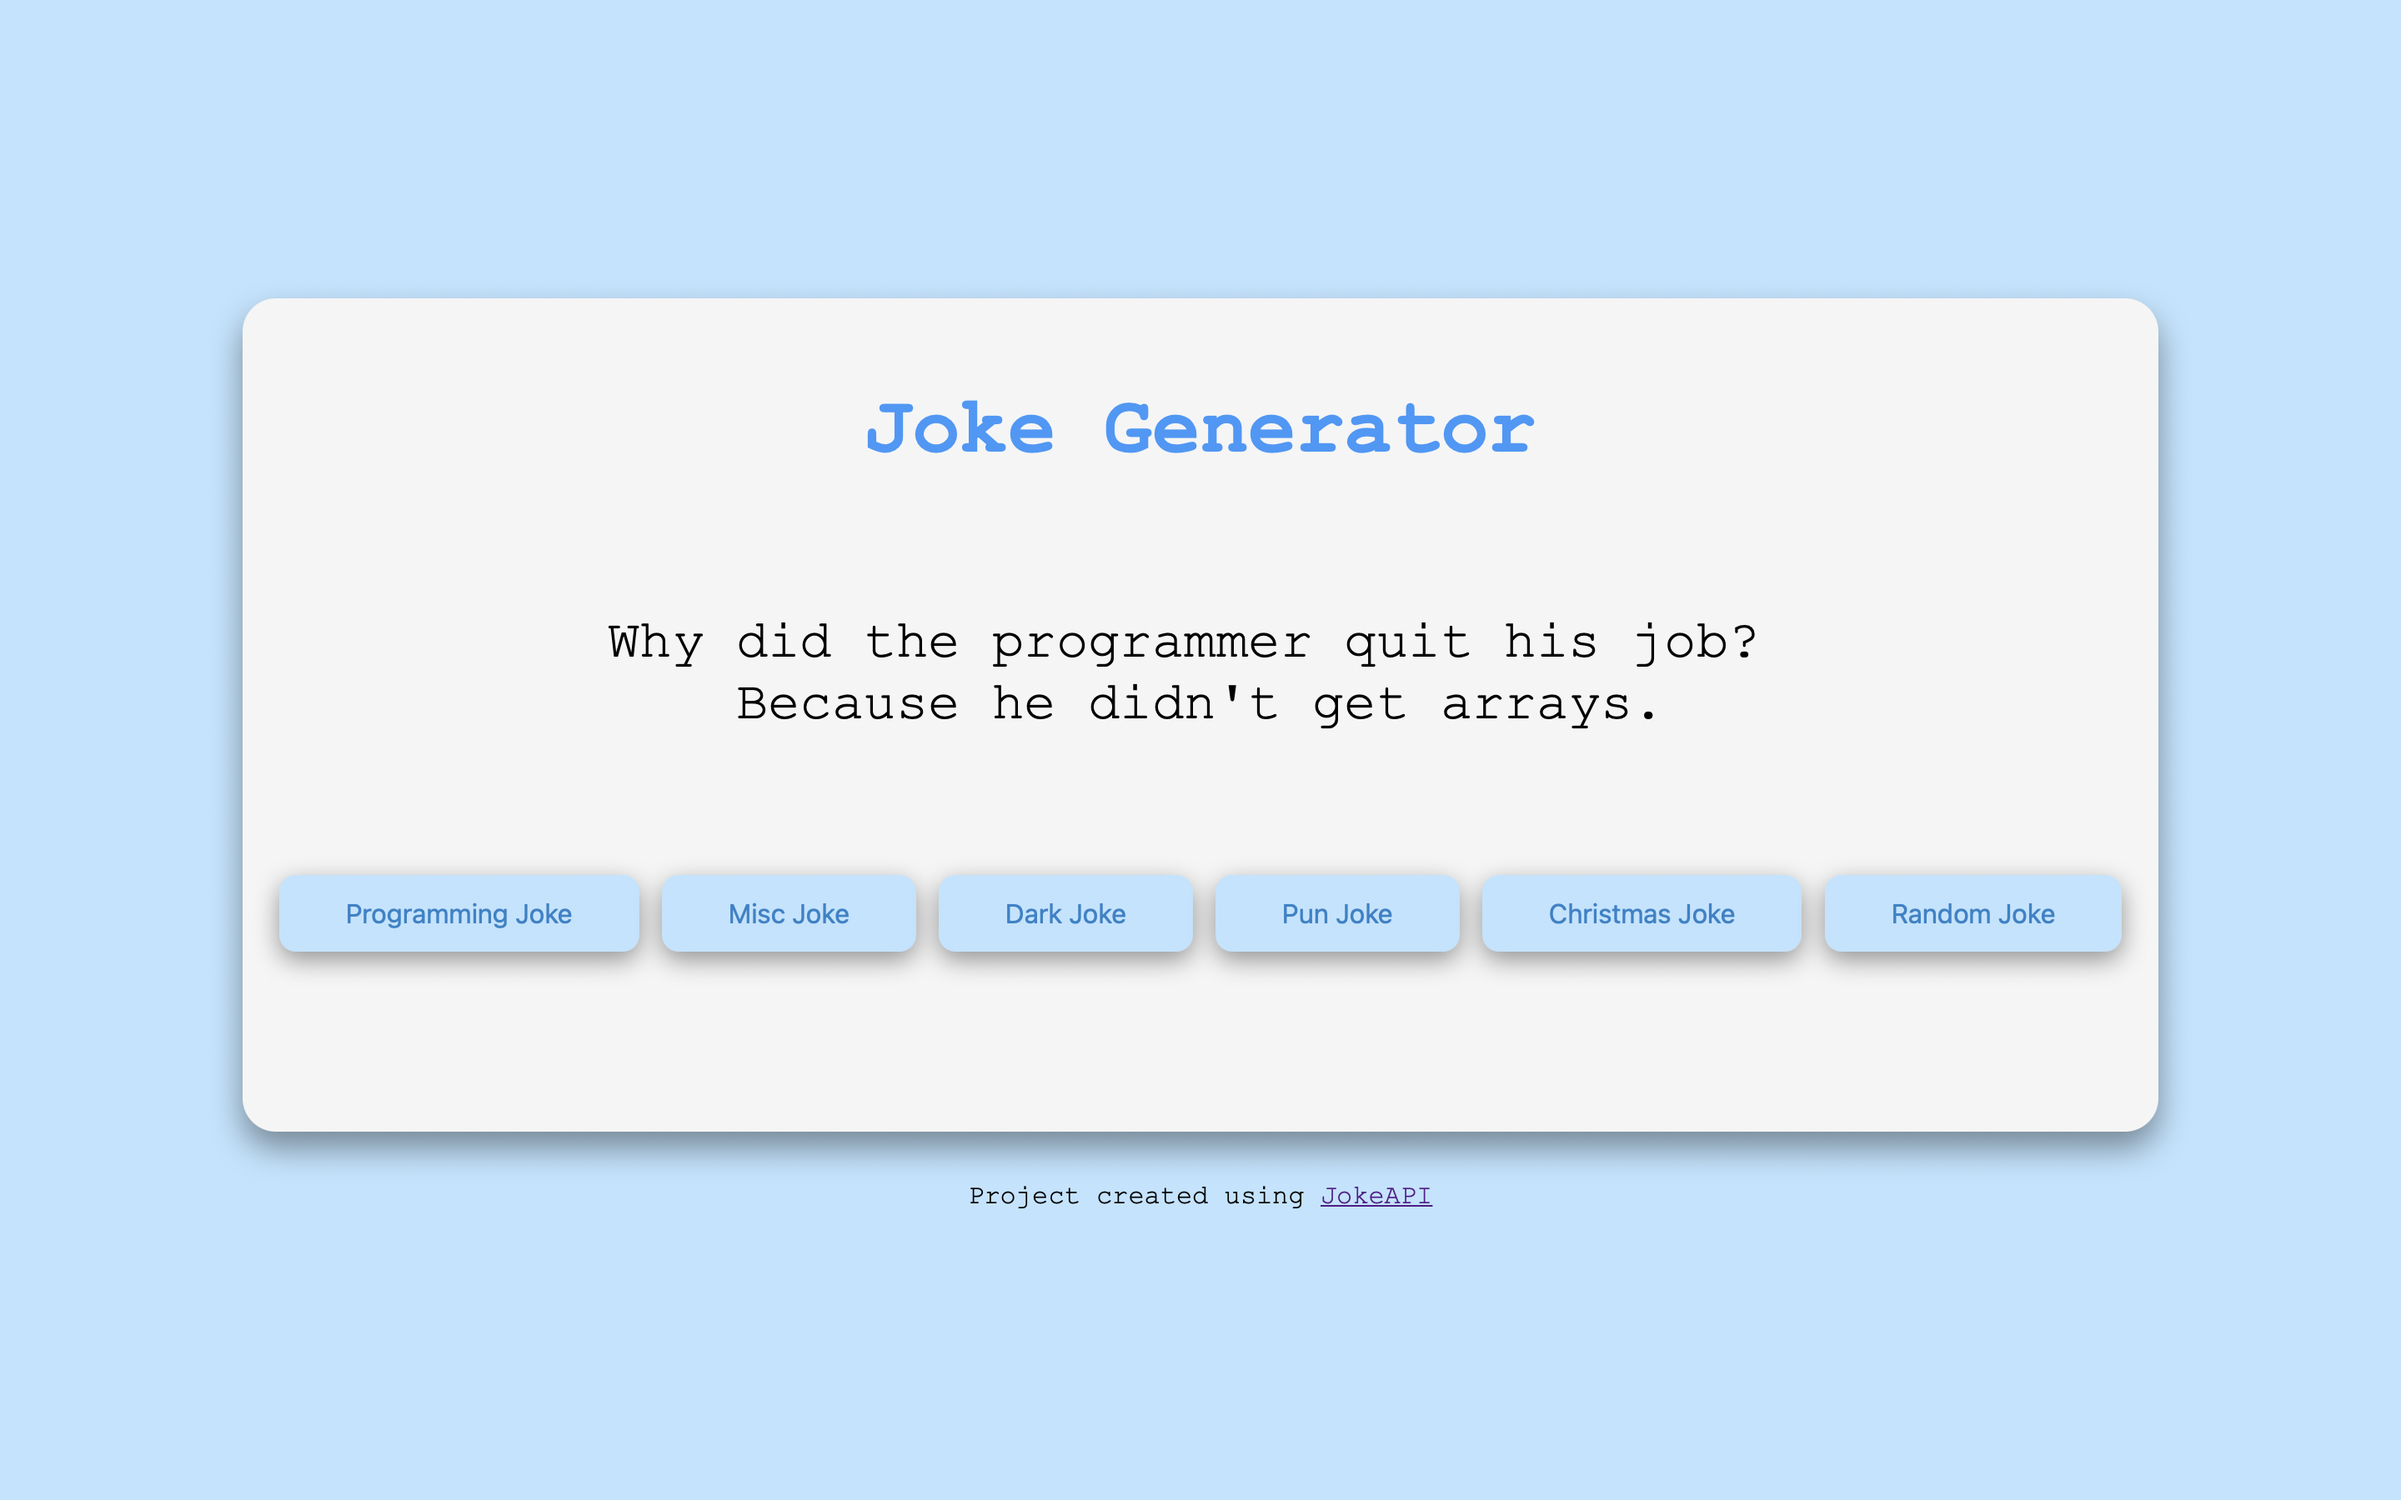
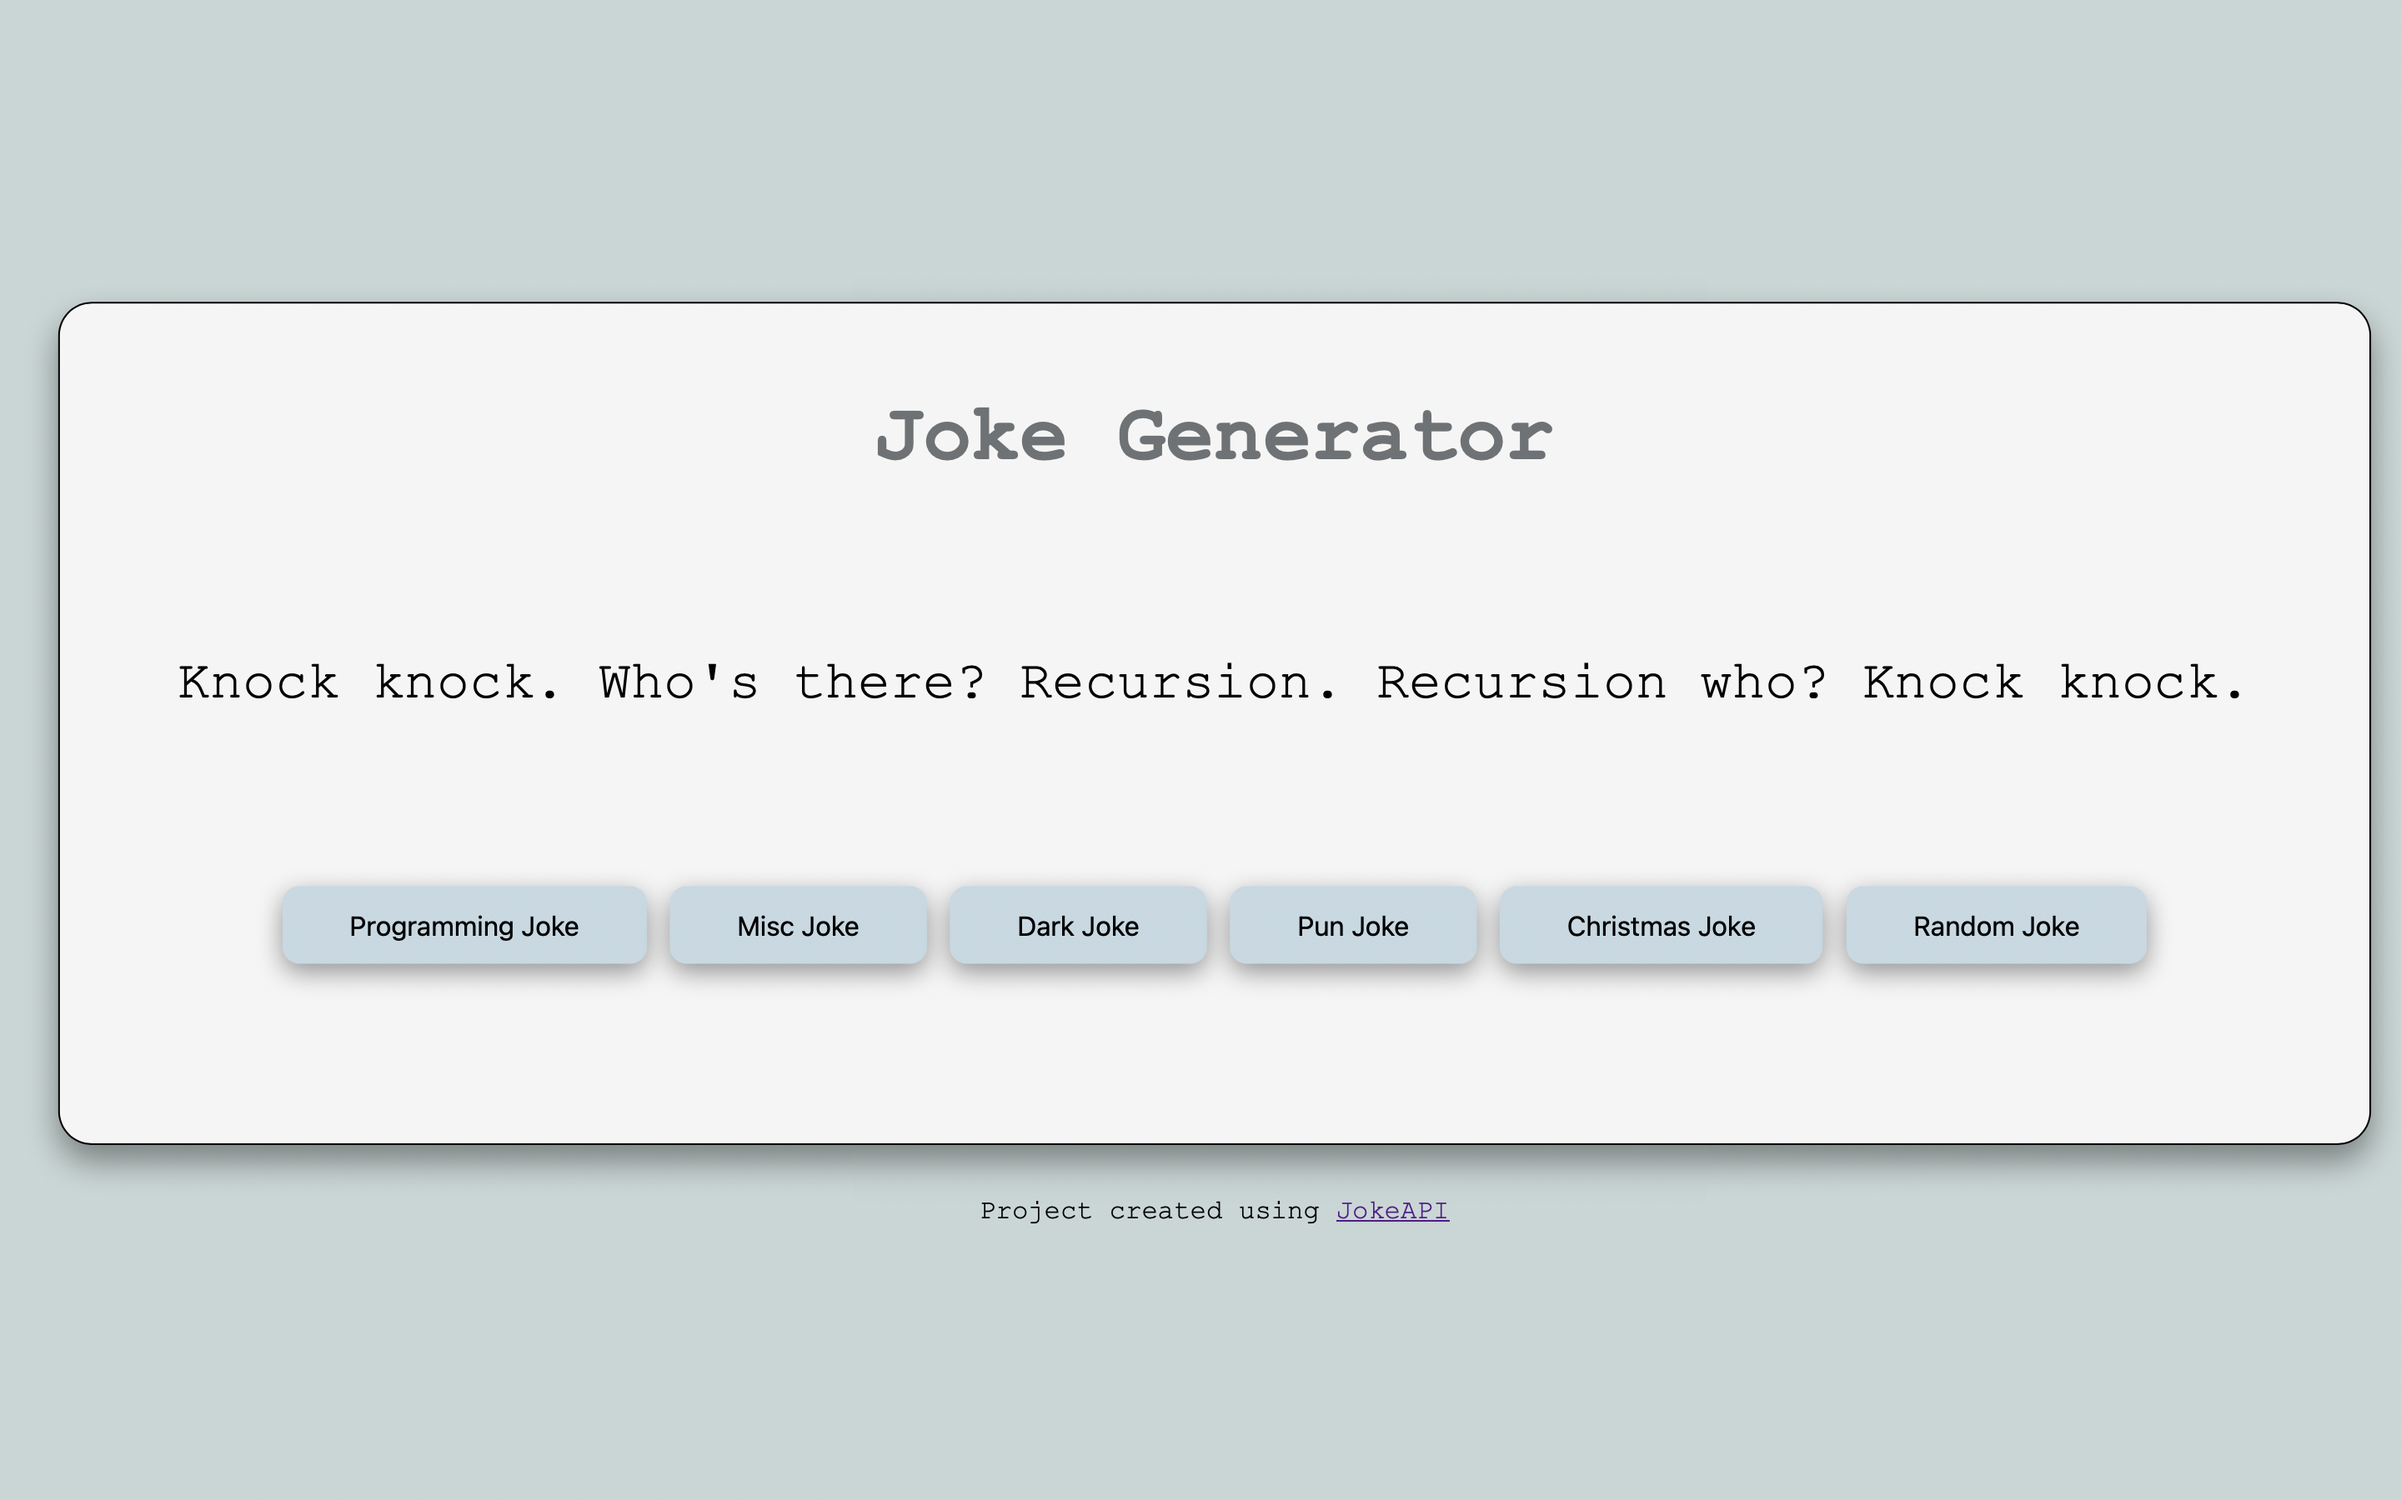
done

diff --git a/script.css b/script.css
@@ -11,7 +11,7 @@
 }
 
 body {
-    background-color: #bee4ff;
+    background-color: #C7D6D5;
     font-family:'Courier New', Courier, monospace;
     display: flex;
     flex-direction: column;
@@ -34,6 +34,7 @@ body {
     /* width: 800px; */
     /* max-height: 100%; */
     height: 500px;
+    border: 1px solid black;
 }
 
 .joke {
@@ -47,14 +48,14 @@ body {
 }
 
 h1 {
-  color: rgb(49, 153, 250);  
+  color: #6D7275;  
   /* text-shadow: 1px 3px 4px #000000; */
   font-size: 3rem;
 }
 
 .programming {
-    background-color: #bee4ff;
-    color: #1e83ca;
+    background-color: #C5D9E2;
+    color: #000000;
     border: 0;
     box-shadow: 0 5px 15px rgba(0, 0, 0, 0.4);
     padding: 14px 40px;
@@ -63,8 +64,8 @@ h1 {
     cursor: pointer;
 }
 .pun {
-    background-color: #bee4ff;
-    color: #1e83ca;
+    background-color: #C5D9E2;
+    color: #000000;
     border: 0;
     box-shadow: 0 5px 15px rgba(0, 0, 0, 0.4);
     padding: 14px 40px;
@@ -73,8 +74,8 @@ h1 {
     cursor: pointer;
 }
 .misc {
-    background-color: #bee4ff;
-    color: #1e83ca;
+    background-color: #C5D9E2;
+    color: #000000;
     border: 0;
     box-shadow: 0 5px 15px rgba(0, 0, 0, 0.4);
     padding: 14px 40px;
@@ -83,8 +84,8 @@ h1 {
     cursor: pointer;
 }
 .dark {
-    background-color: #bee4ff;
-    color: #1e83ca;
+    background-color: #C5D9E2;
+    color: #000000;
     border: 0;
     box-shadow: 0 5px 15px rgba(0, 0, 0, 0.4);
     padding: 14px 40px;
@@ -93,8 +94,8 @@ h1 {
     cursor: pointer;
 }
 .random {
-    background-color: #bee4ff;
-    color: #1e83ca;
+    background-color: #C5D9E2;
+    color: #000000;
     border: 0;
     box-shadow: 0 5px 15px rgba(0, 0, 0, 0.4);
     padding: 14px 40px;
@@ -103,8 +104,8 @@ h1 {
     cursor: pointer;
 }
 .christmas {
-    background-color: #bee4ff;
-    color: #1e83ca;
+    background-color: #C5D9E2;
+    color: #000000;
     border: 0;
     box-shadow: 0 5px 15px rgba(0, 0, 0, 0.4);
     padding: 14px 40px;
@@ -141,4 +142,26 @@ h1 {
 
 .christmas:focus {
     outline: 0;
+}
+
+.programming:hover{
+    background-color: #b9c7c6;
+}
+.pun:hover{
+    background-color: #b9c7c6;
+}
+.christmas:hover{
+    background-color: #b9c7c6;
+}
+.misc:hover{
+    background-color: #b9c7c6;
+}
+.dark:hover{
+    background-color: #b9c7c6;
+}
+.random:hover{
+    background-color: #b9c7c6;
+}
+.programming:hover{
+    background-color: #b9c7c6;
 }
